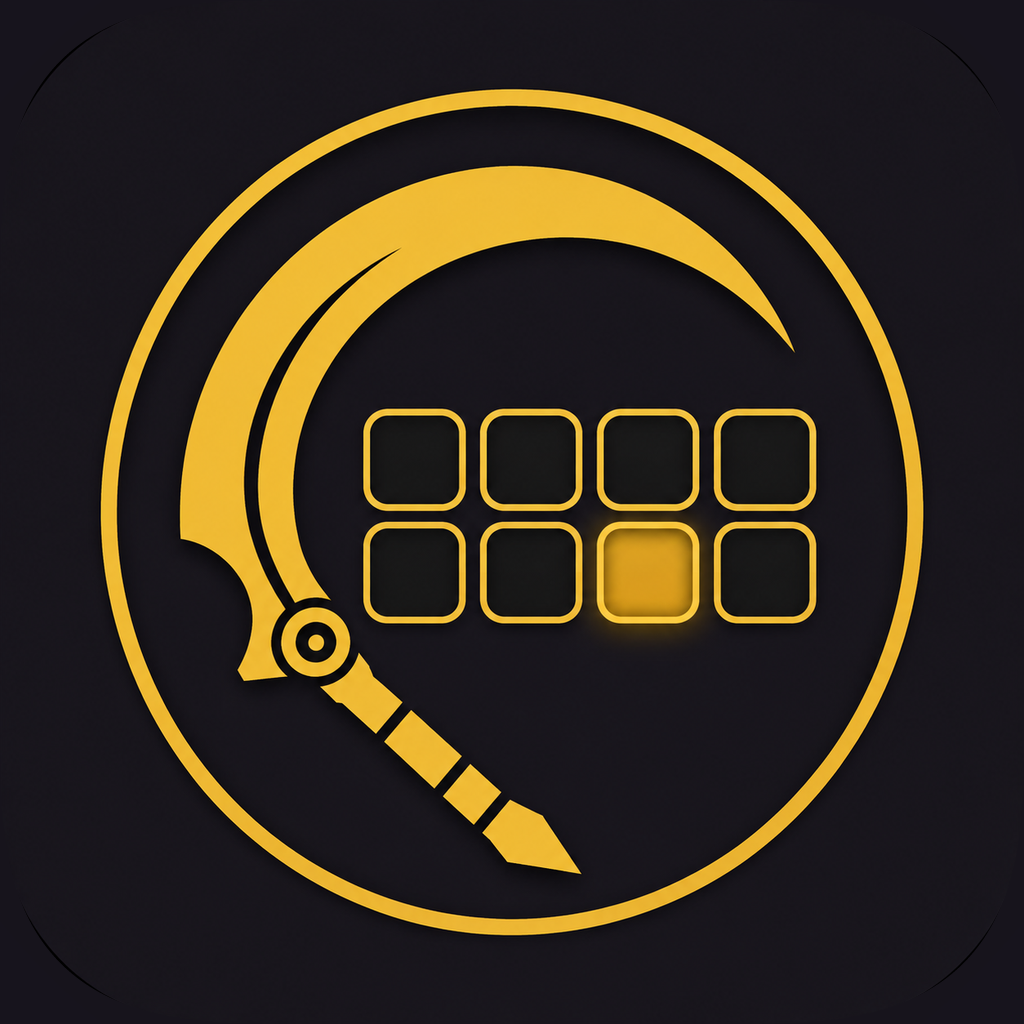
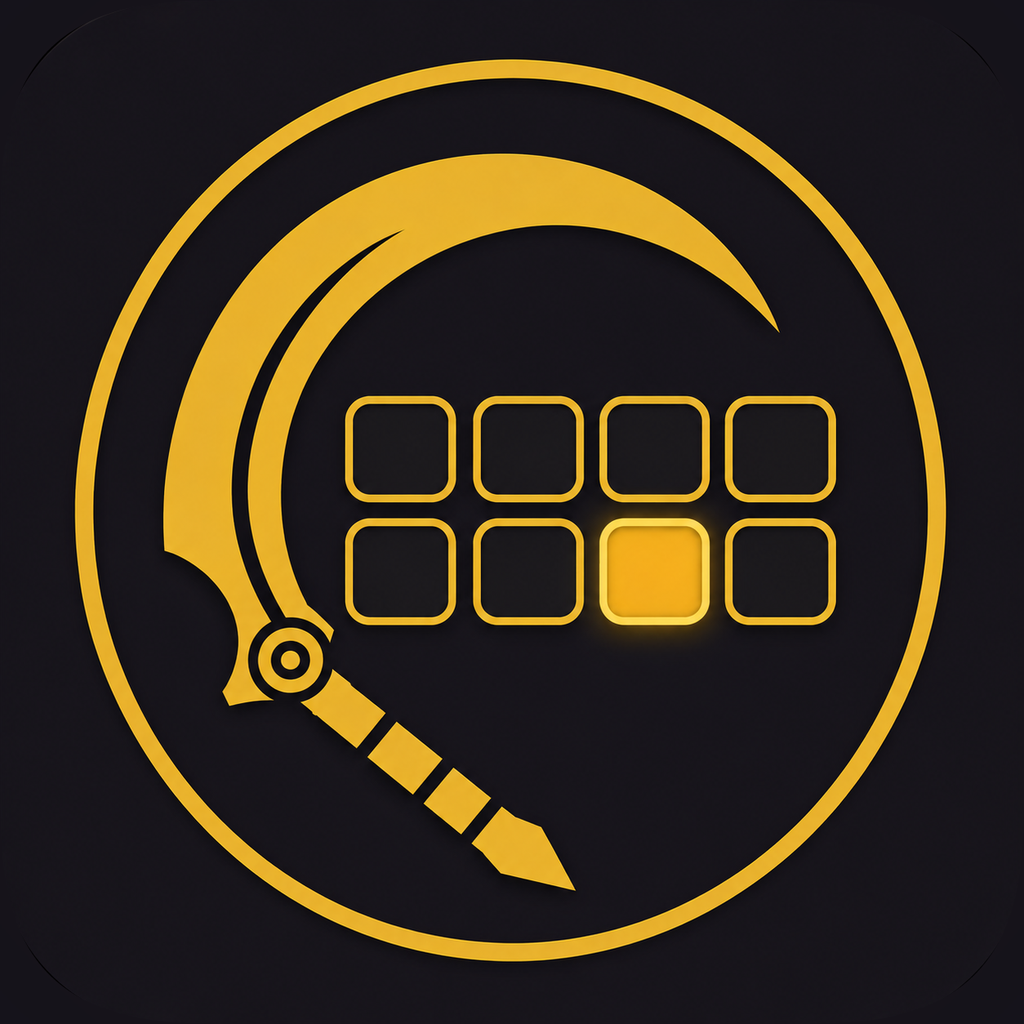
feat(assets): adopt the larger-mark reference, rebuilt full-bleed
New master rendered 2026-07-31 at 1254px with the mark drawn larger. The
legibility claim checks out: gold coverage rose from 14.4% to 16.0% of the canvas,
and at 32px — where it actually matters — from 23.0% to 26.2% of pixels.

Its geometry was re-fitted rather than inherited, which turned out to matter: this
master is a superellipse of exponent 3 at radius 293px, or 23.4% of 1254, where the
previous one sat at 28.7% of 1024. Reusing the old ratio would have cut into the
artwork. A circular arc fits this source at 11.37px mean error against 1.36px for
the superellipse, so the exponent is a property of the drawing and is re-fitted
whenever the master changes.

Same full-bleed treatment as before, with its own measured gradient: interior
preserved pixel-for-pixel, only the region outside the boundary repainted, the
anti-aliased band blended in. Verified objectively — background luminance standard
deviation across the boundary is 0.47 against 3.16 away from it, so no residual
ring.

diff --git a/assets/brand/README.md b/assets/brand/README.md
@@ -29,6 +29,16 @@ frame inside a frame. Full-bleed lets each surface impose its own shape, and the
 surfaces that apply none (browser tab favicons, inline README images) show a plain
 square, which is what an icon normally looks like anyway.
 
+## Source
+
+The master is a fresh reference rendered 2026-07-31 at 1254px, with the mark drawn
+larger than the previous version for legibility at small sizes. Measured: gold
+coverage rose from 14.4% to 16.0% of the canvas, and at 32px — where it matters —
+from 23.0% to 26.2% of pixels.
+
+Its own geometry was re-fitted rather than inherited: a superellipse of exponent 3
+at radius 293px, which is 23.4% of 1254 where the previous master sat at 28.7% of 1024. Reusing the old ratio would have cut into the artwork.
+
 ## How the full-bleed background was built
 
 The corners were not simply flooded with a flat colour. The tile carries a real,
@@ -41,11 +51,13 @@ distance from centre, extrapolated to the corners (normalised distance reaches
 outside the old rounded boundary is repainted, with the anti-aliased boundary band
 blended into the new background so the former tile edge disappears.
 
-The boundary is a **superellipse of exponent 3, radius 294px** (28.7% of the
-width), fitted from the source rather than assumed: a circular arc fits at 3.16px
-mean error against 1.10px for the superellipse.
+The boundary is a **superellipse of exponent 3**, fitted from each source rather
+than assumed — 293px on the current 1254px master, where a circular arc fits at
+11.37px mean error against 1.36px for the superellipse, and exponent 4 at 1.56px.
+The exponent is a property of the artwork, so it is re-fitted whenever the master
+is replaced.
 
-Verified: background luminance standard deviation across the old boundary is 0.51,
-**lower** than the 2.90 measured away from it — the join is smoother than the
-artwork's own vignette, so there is no residual ring. Corner reads `(23,20,29)`,
-edge midpoint `(24,22,29)`, centre `(15,14,21)`.
+Verified: background luminance standard deviation across the old boundary is 0.47,
+**lower** than the 3.16 measured away from it — the join is smoother than the
+artwork's own vignette, so there is no residual ring. Corner reads `(21,19,27)`,
+centre `(17,16,20)`.
